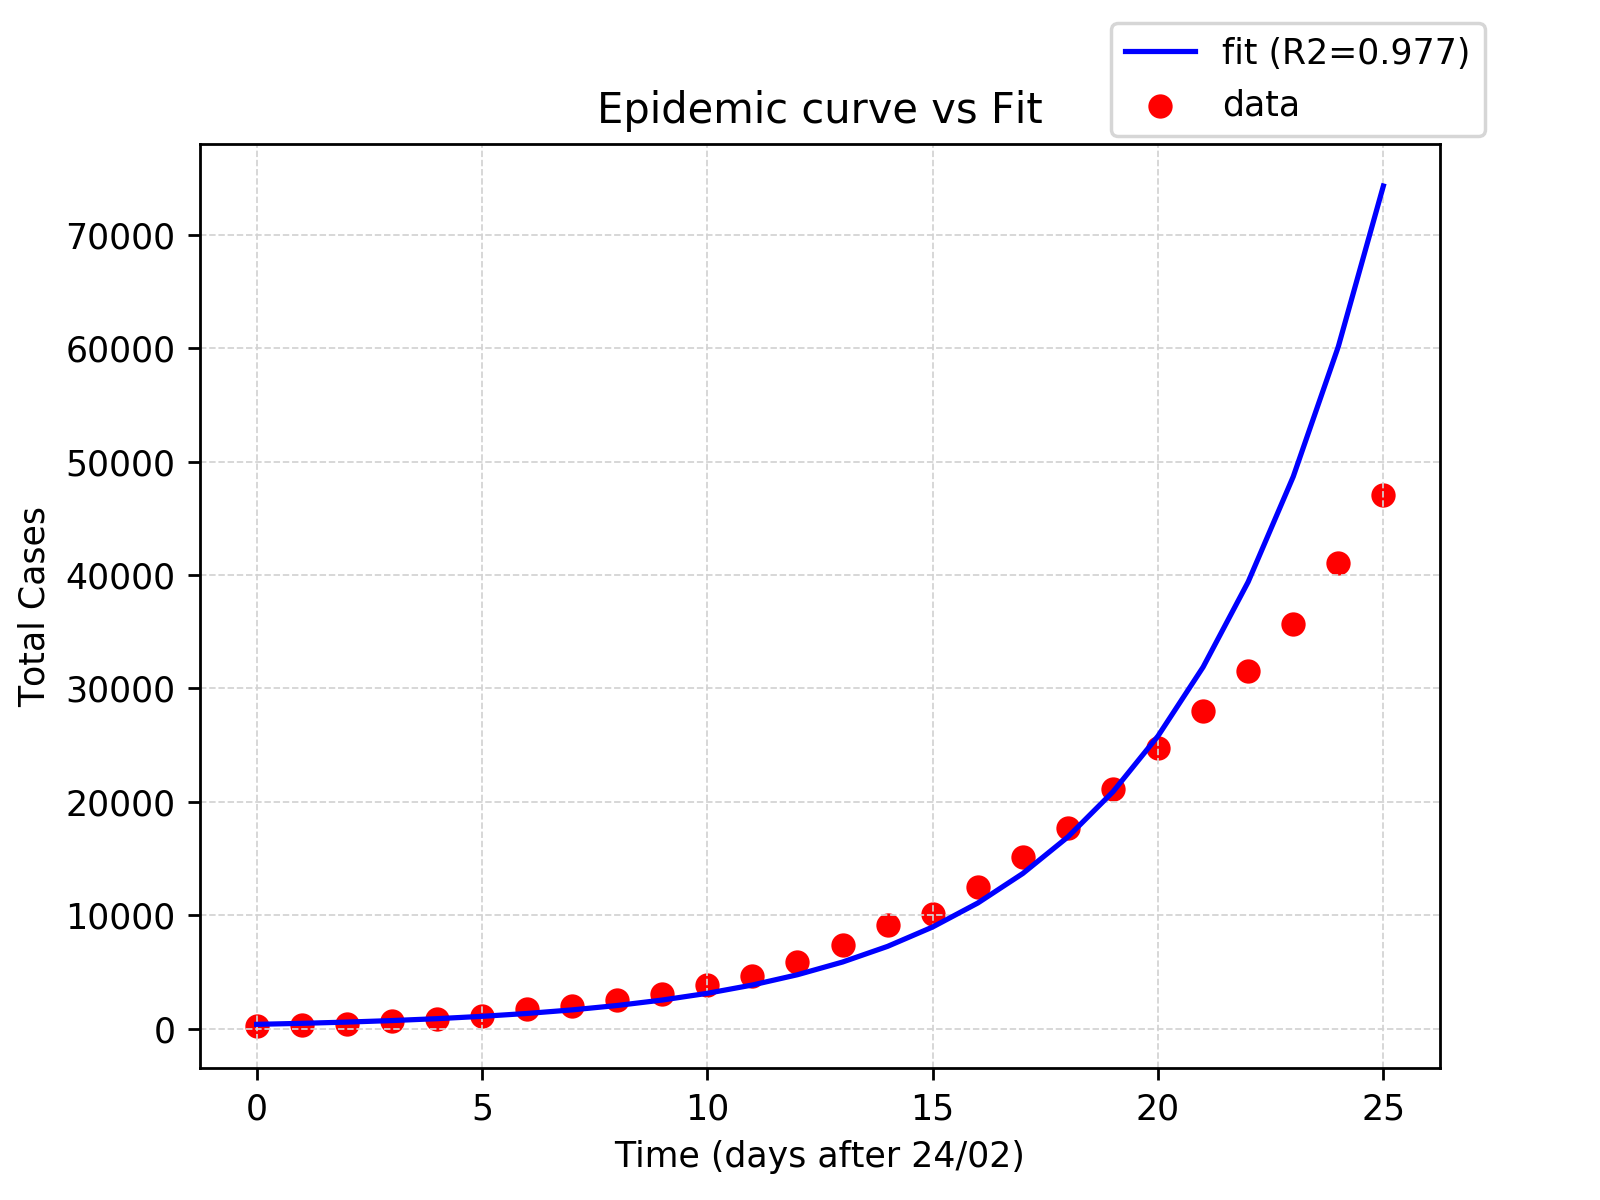
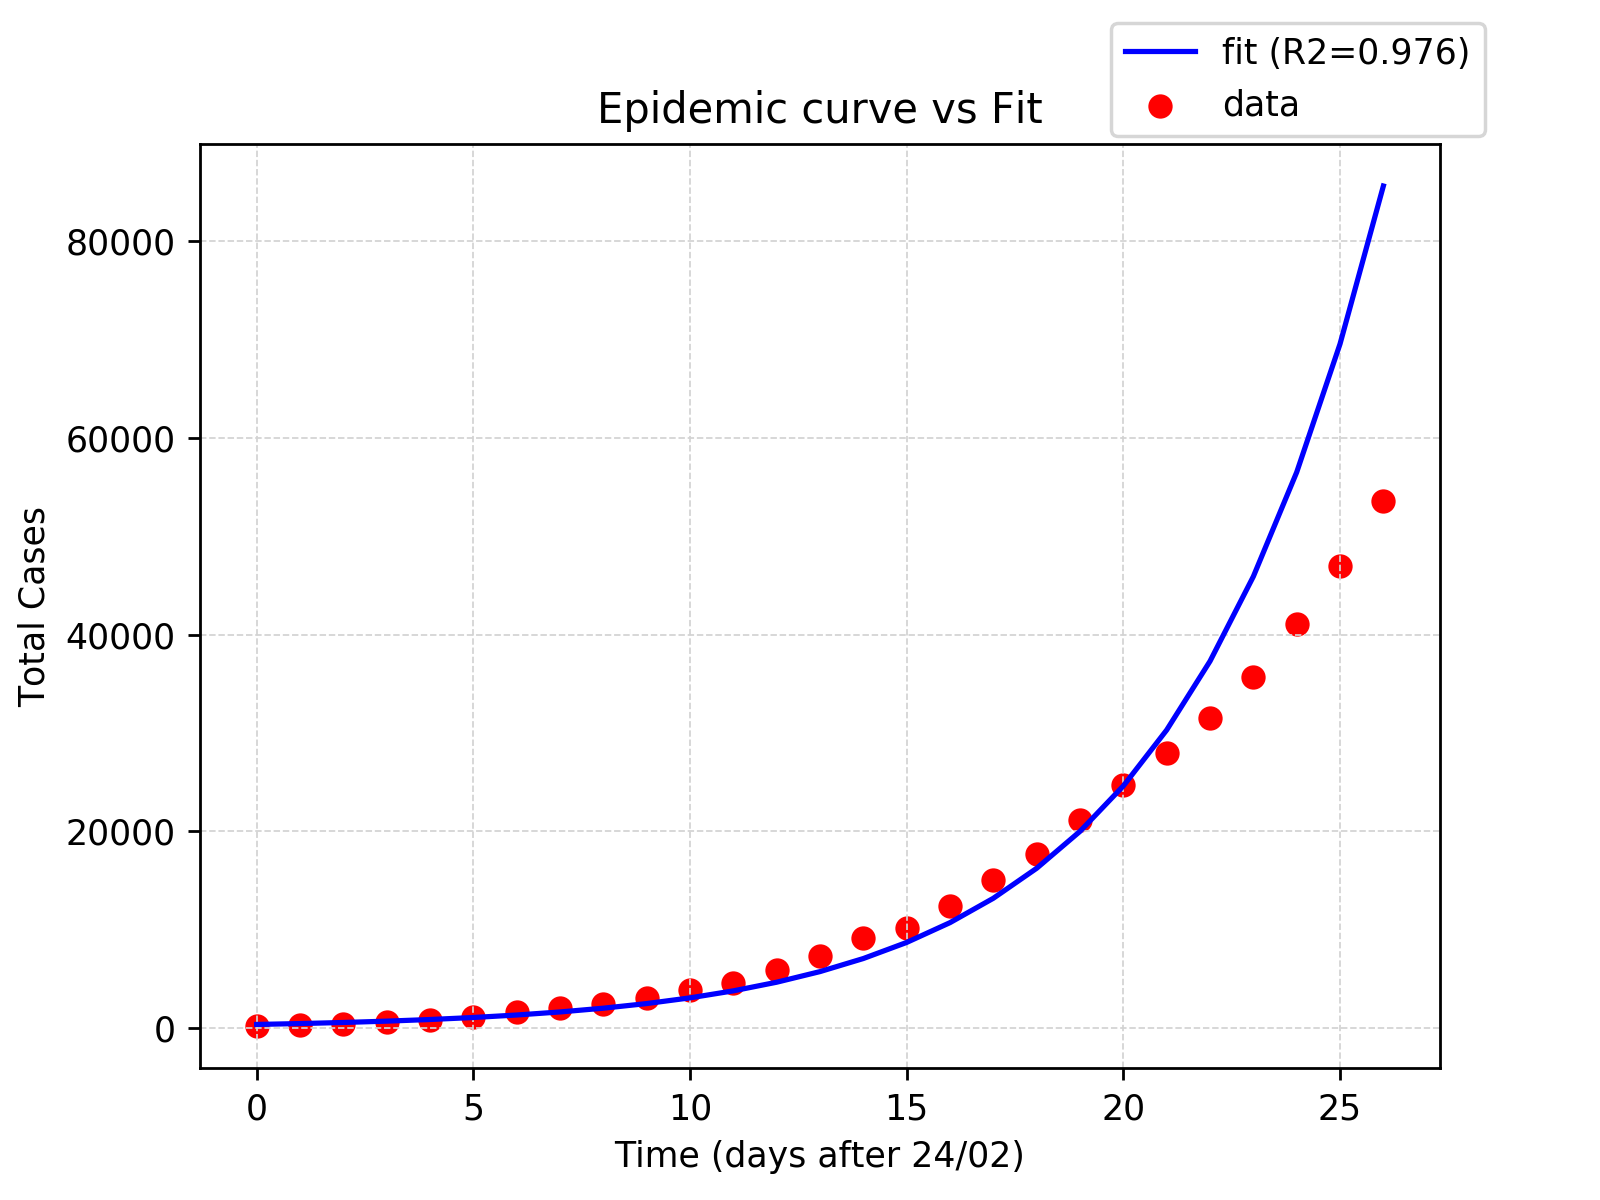
update to 21st of march

diff --git a/regional.py b/regional.py
@@ -30,7 +30,7 @@ print(dataset.describe())
 #print(dataset.mean())
 
 print('\n DATE, REGION, TOT CASES, CURRENTLY INFECTED, NEW INFECTED, HEALED, DECEASED')
-print(dataset.iloc[lambda x: x.index > 503][
+print(dataset.iloc[lambda x: x.index > 524][
 ['data', 'denominazione_regione', 'totale_casi', 'totale_attualmente_positivi', 'nuovi_attualmente_positivi', 'dimessi_guariti', 'deceduti']
 ].to_string())
 
@@ -46,7 +46,7 @@ print(dataset.iloc[lambda x: x.index > 503][
 # monitoring hospitals in fvg
 print('\n MONITORING SITUATION IN FVG HOSPITALS')
 
-last_date = '2020-03-20 17:00:00'
+last_date = '2020-03-21 17:00:00'
 last_tot_cases = dataset.loc[dataset['data']==last_date][['denominazione_regione','totale_casi','totale_attualmente_positivi', 'totale_ospedalizzati', 'terapia_intensiva']]
 
 print('\nTotale casi in fvg')

diff --git a/trieste.py b/trieste.py
@@ -41,7 +41,7 @@ dataset.info()
 # monitoring Trieste
 print('\n MONITORING SITUATION IN TRIESTE')
 
-last_date = '2020-03-20 17:00:00'
+last_date = '2020-03-21 17:00:00'
 last_tot_cases = dataset.loc[dataset['data']==last_date][['denominazione_provincia','totale_casi']]
 
 print('\nTotale casi a Trieste')
